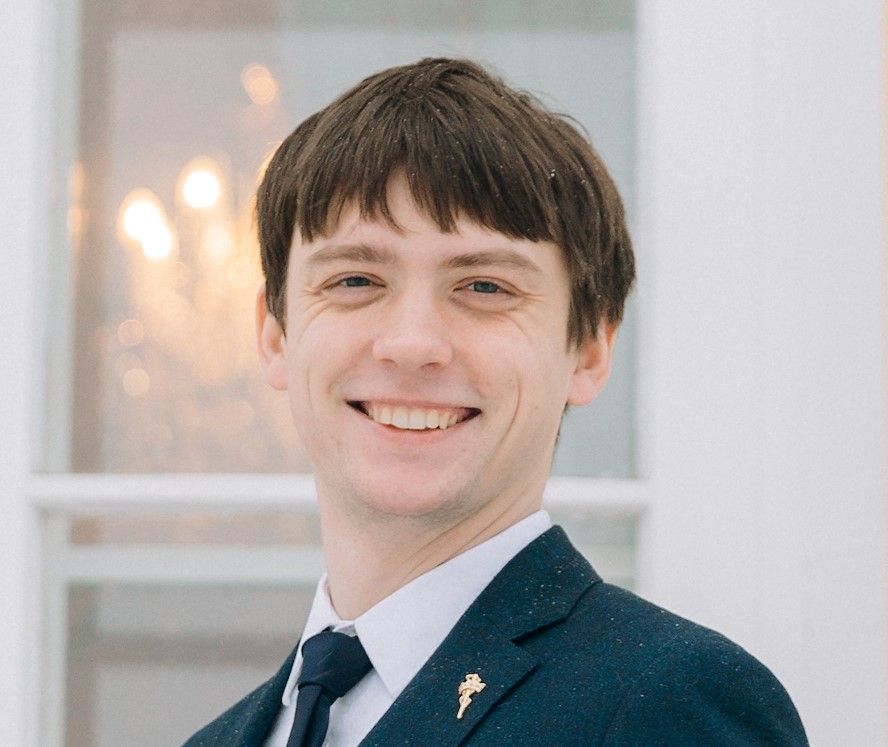
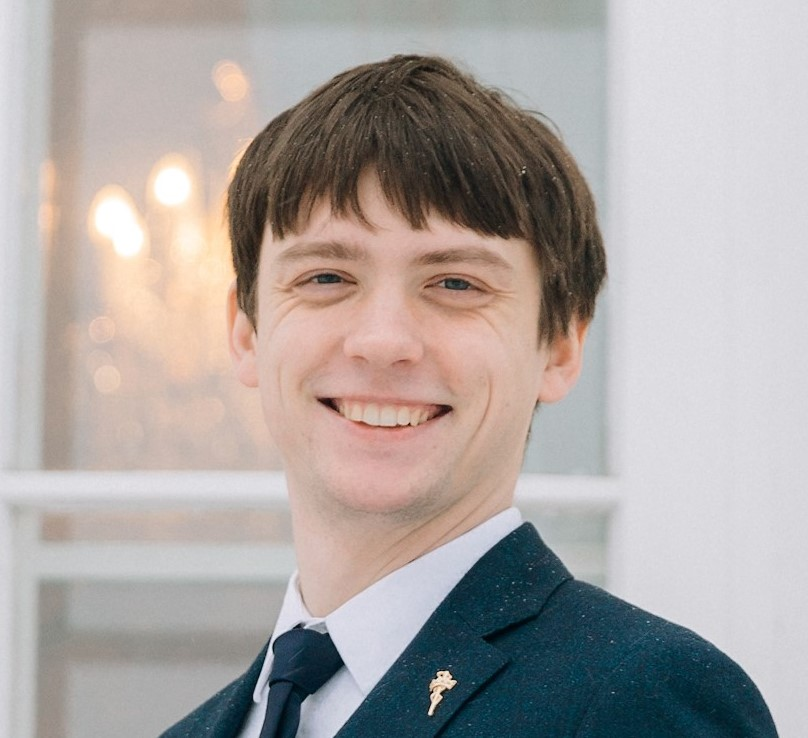
change photo

diff --git a/index.html b/index.html
@@ -43,7 +43,7 @@
             <div class="row-sm">
                 <div class="col-sm">
                     <img src="photo.jpg" class="img-responsive" alt="Dmitrii Avdiukhin" class="img-fluid"
-                         width="200" align="left" style="margin-right:20px">
+                         width="180" align="left" style="margin-right:20px">
                 </div>
                 <div class="col-sm">
                     <p align="left" class="lead">Ph.D. student, Indiana University</p>
